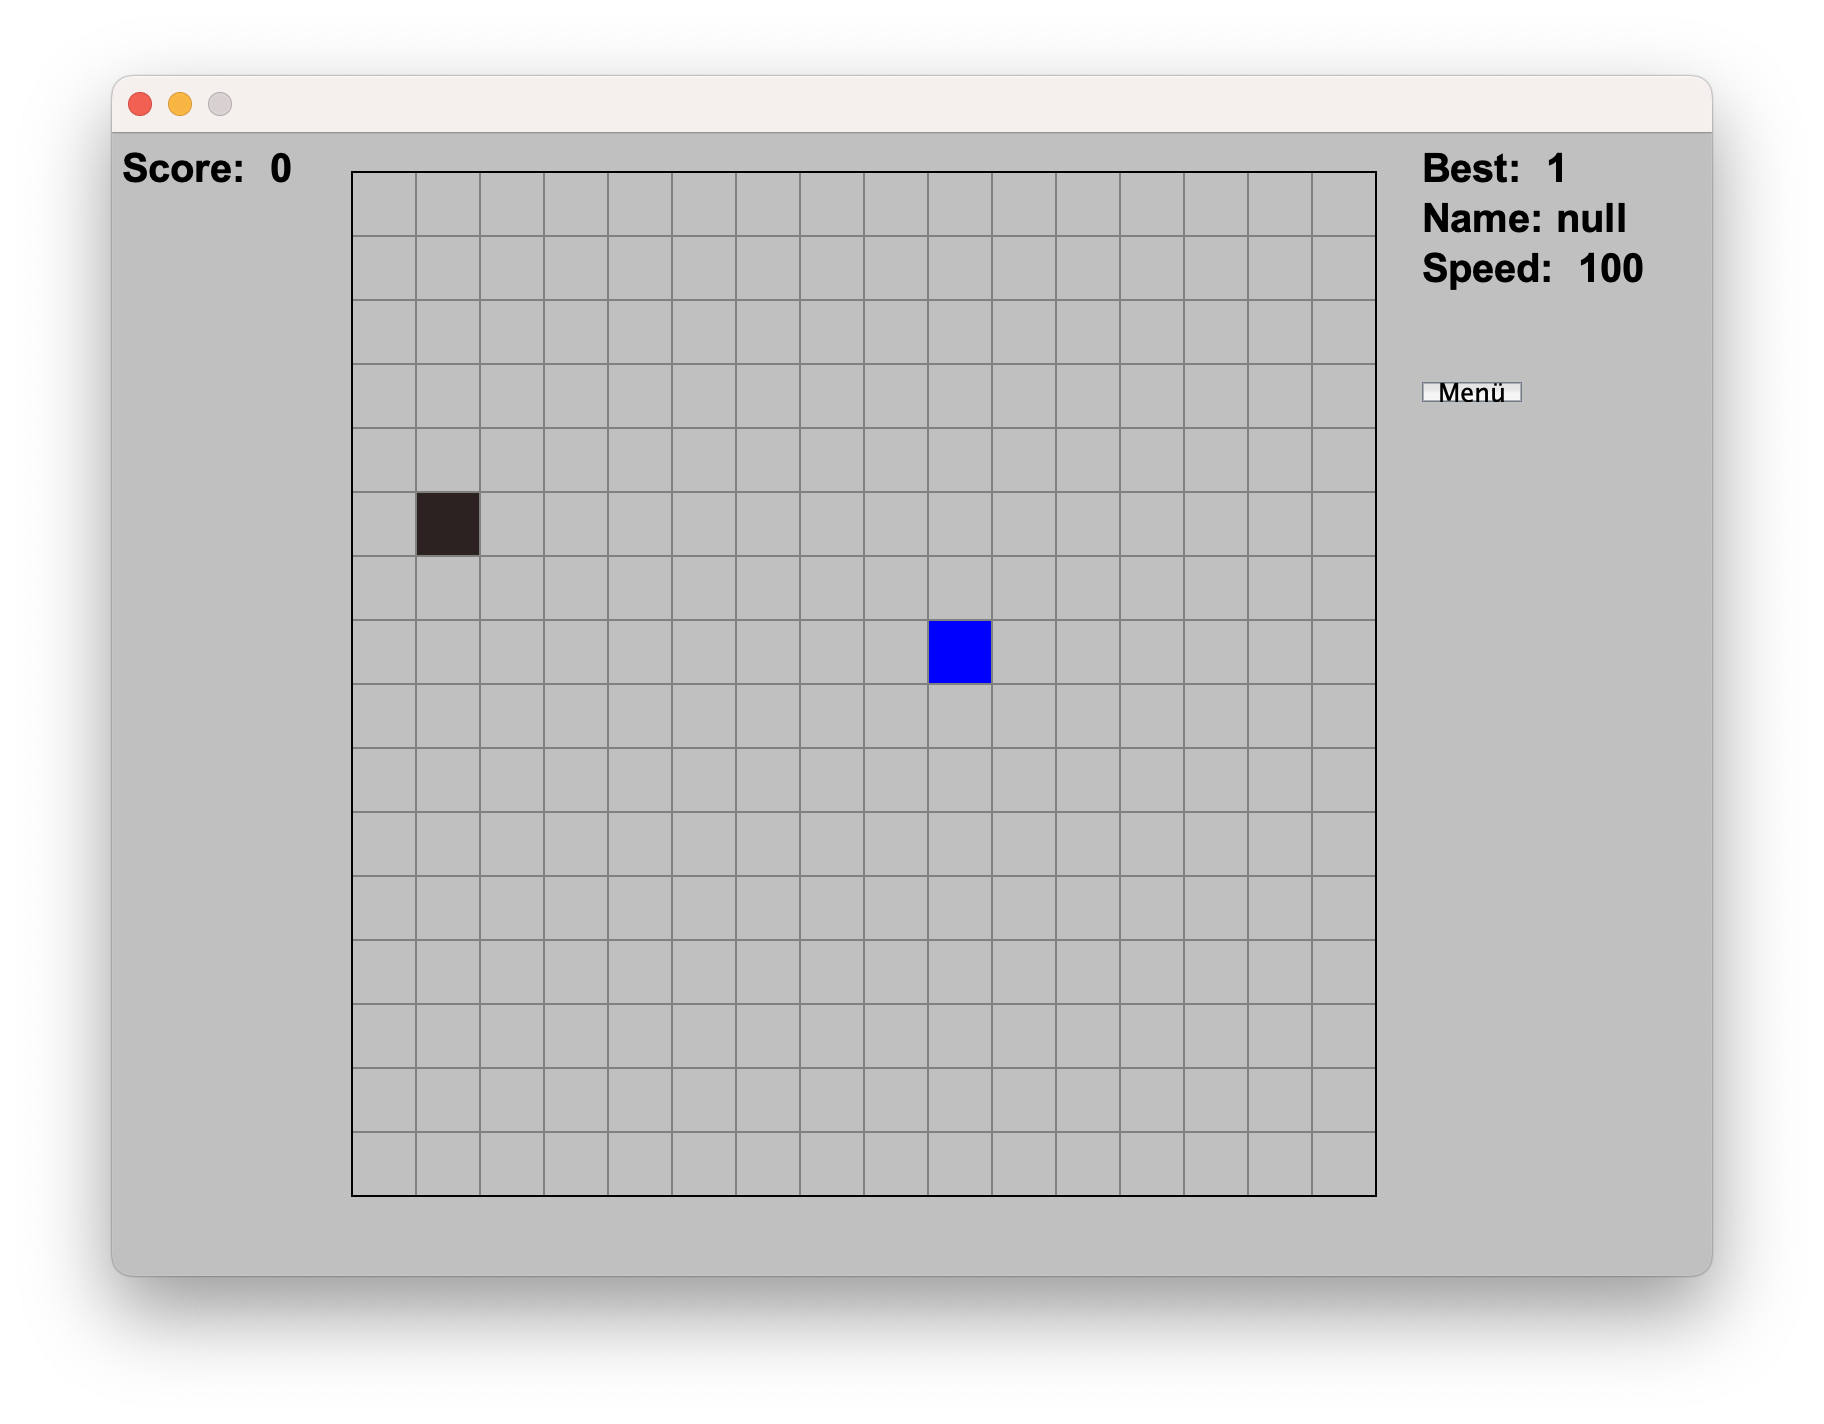
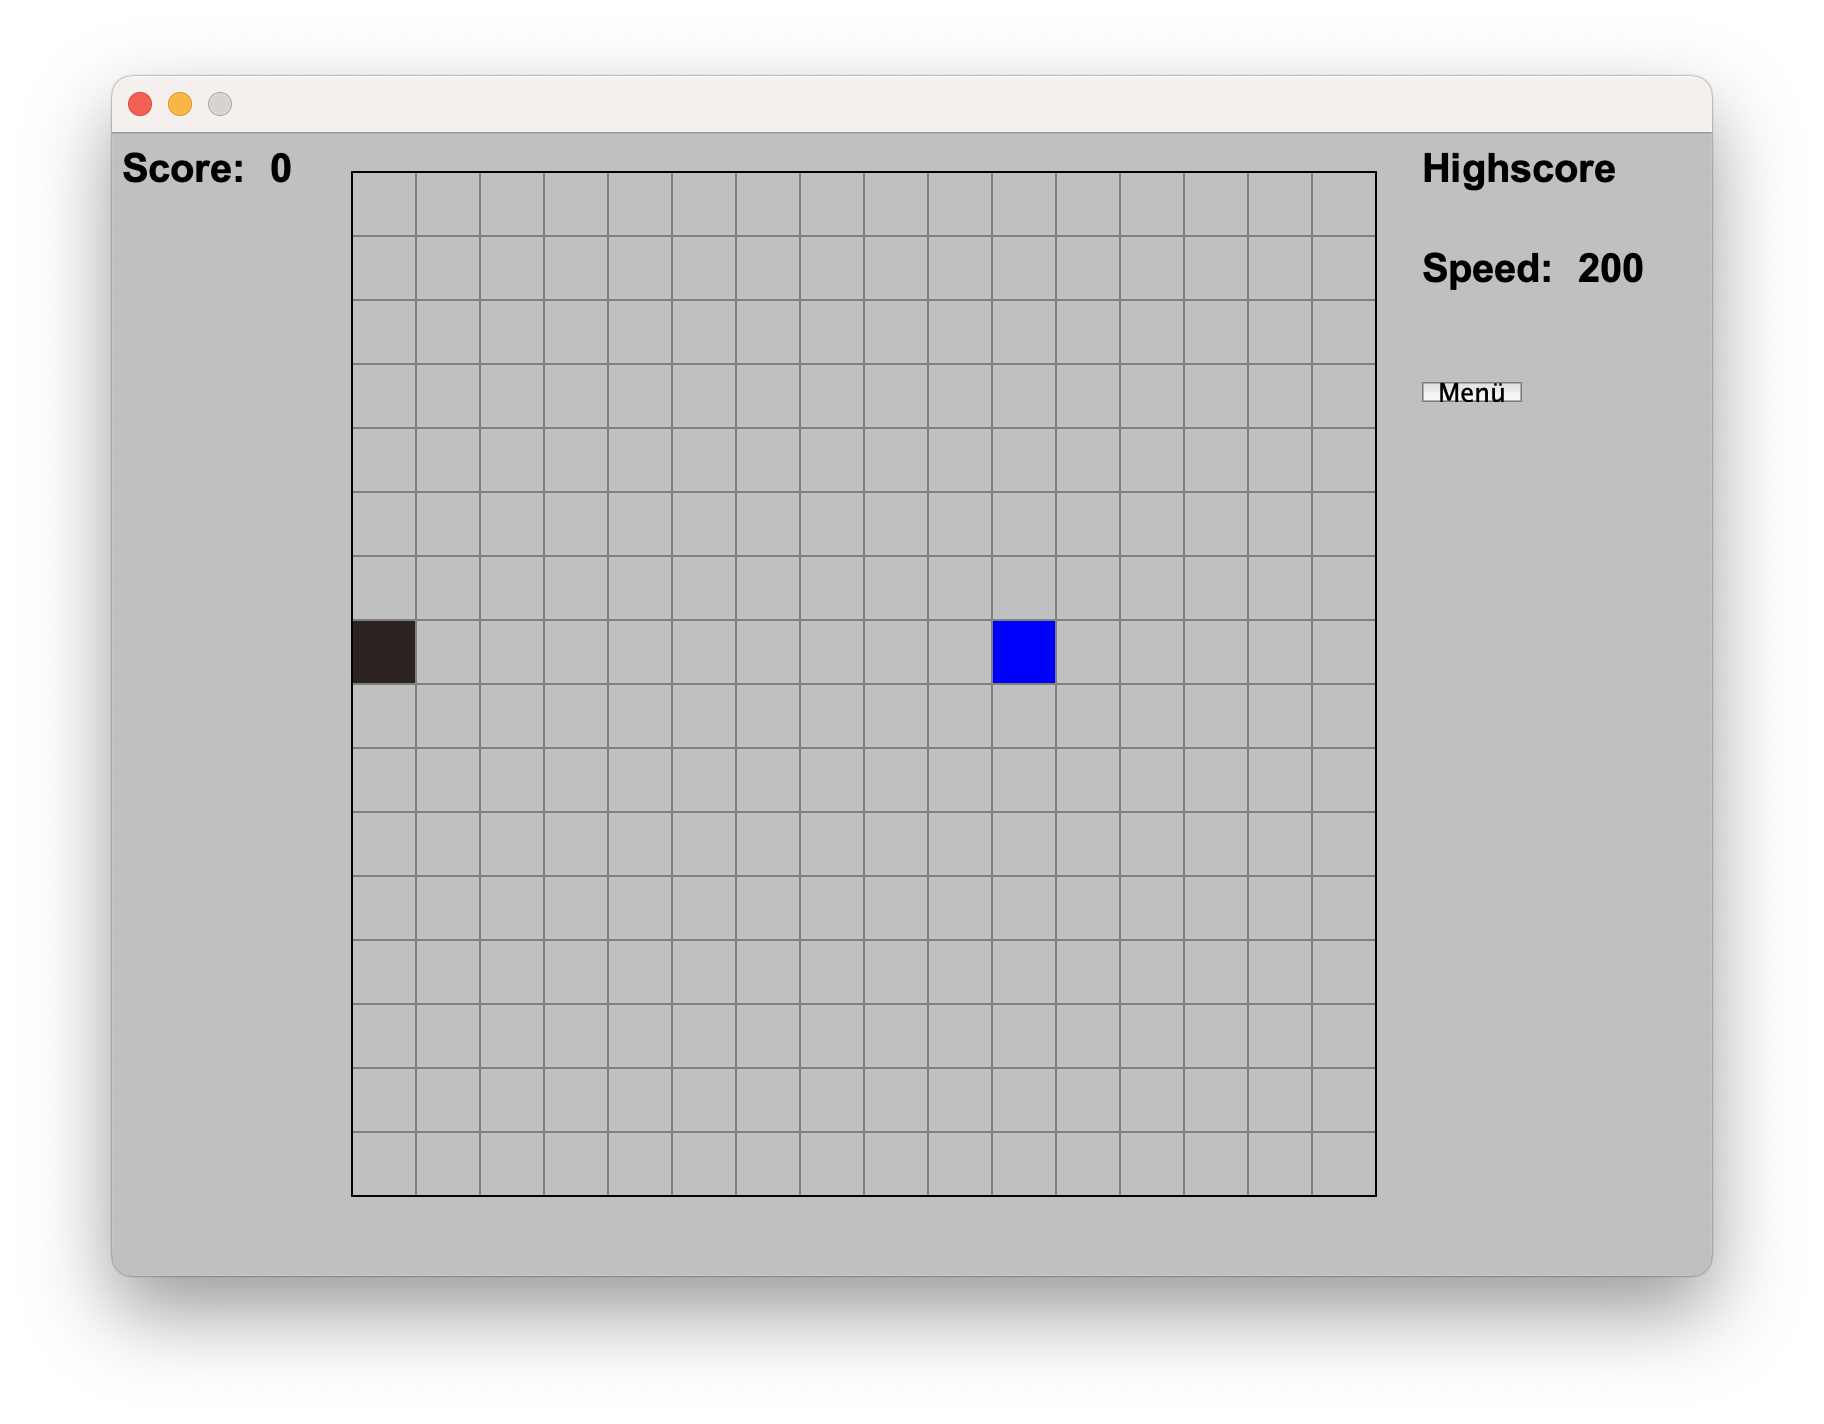
ReadMe and language

diff --git a/src/Gui/Menu.java b/src/Gui/Menu.java
@@ -7,10 +7,10 @@ import java.awt.event.ActionListener;
 
 public class Menu extends JFrame {
      private final Gui gui;
-     private final JButton leicht = new JButton("Schwierigkeit: Leicht");
-     private final JButton mittel = new JButton("Schwierigkeit: Mittel");
-     private final JButton schwer = new JButton("Schwierigkeit: Schwer");
-     private final JButton modus = new JButton("Modus");
+     private final JButton easy = new JButton("Easy");
+     private final JButton medium = new JButton("Medium");
+     private final JButton hard = new JButton("Hard");
+     private final JButton speedup = new JButton("Speed Up");
      private final JButton settings = new JButton("Settings");
 
 
@@ -29,36 +29,36 @@ public class Menu extends JFrame {
         this.setVisible(true);
     }
     private void initButtons(){
-        leicht.setBounds(150,310,500,100);
-        mittel.setBounds(150,210,500,100);
-        schwer.setBounds(150,110,500,100);
-        modus.setBounds(150,10,500,100);
+        easy.setBounds(150,310,500,100);
+        medium.setBounds(150,210,500,100);
+        hard.setBounds(150,110,500,100);
+        speedup.setBounds(150,10,500,100);
         settings.setBounds(150,410,500,100);
-        this.add(leicht);
-        this.add(mittel);
-        this.add(schwer);
-        this.add(modus);
+        this.add(easy);
+        this.add(medium);
+        this.add(hard);
+        this.add(speedup);
         this.add(settings);
 
-        leicht.addActionListener(new ActionListener() {
+        easy.addActionListener(new ActionListener() {
             public void actionPerformed(ActionEvent e) {
                 gui.gameStart(1);
                 gui.menuFrame.dispose();
             }
         });
-        mittel.addActionListener(new ActionListener() {
+        medium.addActionListener(new ActionListener() {
             public void actionPerformed(ActionEvent e) {
                 gui.gameStart(2);
                 gui.menuFrame.dispose();
             }
         });
-        schwer.addActionListener(new ActionListener() {
+        hard.addActionListener(new ActionListener() {
             public void actionPerformed(ActionEvent e) {
                 gui.gameStart(3);
                 gui.menuFrame.dispose();
             }
         });
-        modus.addActionListener(new ActionListener() {
+        speedup.addActionListener(new ActionListener() {
             public void actionPerformed(ActionEvent e) {
                 gui.gameStart(4);
                 gui.menuFrame.dispose();

diff --git a/src/persistence/HighscoreDao.java b/src/persistence/HighscoreDao.java
@@ -82,7 +82,7 @@ public class HighscoreDao {
     }
 
     public void namePlayer(int spielModus, int score){
-        nameHighscoretraeger = JOptionPane.showInputDialog(null, "Bitte Namen eingeben");
+        nameHighscoretraeger = JOptionPane.showInputDialog(null, "Please enter your name");
         saveHighscoreToDatabase(spielModus, nameHighscoretraeger, score);
     }
 

diff --git a/README.md b/README.md
@@ -18,12 +18,17 @@ In my project I have implemented different modes and features.
 - You have a menu interface where you can change the game mode or difficulty.
 - You have a setting section, where you can change the volume of the music.
 - Saving Highscore:
-  - 
+  - If you break the highscore the game will overwrite the old score and you can enter your name.
+
+## MySQL
+I have a MYSQL database running via Docker, in which the highest score achieved for the individual modes and difficulty are stored, as well as th name of the player.The game pulls the highscore from the database and if a player should break the score, a window appears in which the player can enter their name and the name and score will be overwritten in the database.
+
 
 ## Technologies used
--Java
--Javafx
--MYSQL-Database
+- Java
+- Javafx
+- MYSQL-Database
+- Docker
 
 
 
